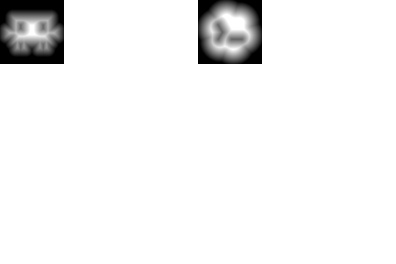
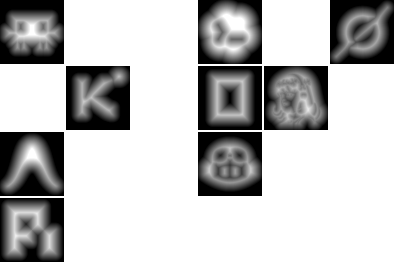
359 (green, step 2): the swarm's atlas carries the nine chosen marks again, and the eleven neighbours stay blank
- The recipe VF-PM ruled (LP-D7's other half stands: a mark the app does not draw leaves the bundle):
  - the bake's png came back from git: `git show 40c794263:…/FieldSwarm/Resources/marks.png` (the commit before
    LP-4's blanking, d074dca20^), 98,495 bytes, sha256 6a5bca60526102573cf5c63cccf5af0ab086c0db0d1d0d0f45e96fa9fbc0104e,
    the same sum as the png at IOS-6c's 0ba7a6a89;
  - `apps/ios/scripts/blank-unkept-marks.mjs` ran on it in the lane with KEPT = the nine marks the design chose
    (claudecode, codex, grok, kimi, opencode, hermesagent, antigravity, githubcopilot, pi) and blanked the eleven
    neighbours (claude, anthropic, openai, xai, moonshot, nousresearch, geminicli, gemini, copilot, github,
    inflection);
  - the png it wrote: 18,532 bytes, sha256 f67d8e288f6166a2577a517bd7a31c3dac71df50aa998b90ecfcabb96e9645cd
    (before, with two tiles: 5,267 bytes, sha256 ce334edab5ddcc18c02328d3dc1bf78a40bef1b2360a9eef604fe5d3dd4bc79a).
- `MarksAtlas.swift`: `kept: true` on the seven other chosen rows, so `providers` is the nine and each draws its
  tile; the head comment and `kept`'s say what LP-4 did and what item 359 did. No tile moved and no literal was
  added: R23b, the gate's own count, before and after: FieldSwarm/MarksAtlas.swift (29 of 29 literal(s)), both times.
- `FieldSwarmTests`: the pin is the script's printed one,
  873a6a58bc37325008b8194fdc2c38ccde072389d1812b4425bcfc137a63a166 (it was 4c89a40c…e867df7), and its note says
  where the nine sit.
[…]

Changed region(s): [[0.4848, 0.0, 1.0, 0.7576], [0.0, 0.2424, 0.3333, 1.0]]

diff --git a/apps/ios/VibeFieldKit/Sources/FieldSwarm/MarksAtlas.swift b/apps/ios/VibeFieldKit/Sources/FieldSwarm/MarksAtlas.swift
@@ -12,20 +12,27 @@ import UIKit
 // could be confused with, so the design could weigh the choice; the app draws
 // only the chosen ones that are KEPT.
 //
-// LP-4 (2026-11-05, the 0.9 launch; James kept two vendor logos in v1): only
-// Claude's and Codex's marks are kept. Every other vendor's mark is a third
-// party's trademark the app has no leave to draw, so every other agent — its
-// pick still recorded as `chosen`, the design's record — wears its LETTER, the
-// swarm's own path for an agent with no tile (`SwarmRenderer`'s watermark
-// fallback). The png ships those two tiles alone: every other tile is blanked
-// IN PLACE (every channel 0, alpha 0) by `apps/ios/scripts/blank-unkept-marks.mjs`,
-// which holds its table to `candidates` below and prints the pixel digest
-// `FieldSwarmTests` pins. The kept tiles are the bake's bytes and no tile
-// moved. The DEBUG lab's sheet (`-vf-swarm-lab=marks`) lists the kept marks
-// alone, read from this table (VF-PM's ruling (a)): a shipped lab shows only
-// what the atlas holds. The design's record of the blanked candidates is the
-// gitignored draft/launch/swarm-marks-candidates.md. A re-bake is the
-// generator's, and the generator is not in this repo.
+// WHICH ARE KEPT. LP-4 (2026-11-05, the 0.9 launch) kept two vendor logos,
+// Claude's and Codex's, and every other agent wore its LETTER. Item 359
+// (2026-11-12; James, 17:50:31Z: "overturn this ruling, bring back those
+// icons now") overturned that: every pick is kept, so each of the nine agents
+// with a tile draws its own mark again. `kept` stays in the table, so one
+// mark can be withdrawn by its row; an agent whose pick is not kept, or that
+// has no tile, wears its letter, the swarm's own path (`SwarmRenderer`'s
+// watermark fallback).
+//
+// WHAT SHIPS. LP-D7's other half stands: a mark the app does not draw leaves
+// the bundle. The png carries the nine chosen tiles and no other: the eleven
+// neighbours are blanked IN PLACE (every channel 0, alpha 0) by
+// `apps/ios/scripts/blank-unkept-marks.mjs`, which holds its table to
+// `candidates` below and prints the pixel digest `FieldSwarmTests` pins. The
+// kept tiles are the bake's bytes (the seven LP-4 had blanked came back from
+// git, the png at 40c794263) and no tile moved. The DEBUG lab's sheet
+// (`-vf-swarm-lab=marks`) lists the kept marks alone, read from this table
+// (VF-PM's ruling (a)): a shipped lab shows only what the atlas holds. The
+// design's record of the blanked candidates is the gitignored
+// draft/launch/swarm-marks-candidates.md. A re-bake is the generator's, and
+// the generator is not in this repo.
 //
 // THE ALLOW-LISTED PRESENTATION TABLE (AC-5, R23b). `candidates` below is the
 // one place in this target that names agents, and it is allowed to because it
@@ -60,9 +67,9 @@ public enum MarksAtlas {
     public var provider: String?
     /// The mark the design picked for that provider.
     public var chosen: Bool
-    /// Whether the app may draw that pick (LP-4): a vendor's logo is its
-    /// owner's, and only the two James kept for v1 are drawn. Unkept, the
-    /// provider wears its letter.
+    /// Whether the app draws that pick. Every pick is kept since item 359
+    /// (2026-11-12); LP-4 (2026-11-05) had kept two. Unkept, the provider
+    /// wears its letter.
     public var kept: Bool = false
 
     /// The app draws this tile: the design's pick, and a mark it keeps.
@@ -80,20 +87,20 @@ public enum MarksAtlas {
     Candidate(id: "anthropic", title: "Anthropic", tile: at(2), provider: "claude", chosen: false),
     Candidate(id: "codex", title: "Codex", tile: at(3), provider: "codex", chosen: true, kept: true),
     Candidate(id: "openai", title: "OpenAI", tile: at(4), provider: "codex", chosen: false),
-    Candidate(id: "grok", title: "Grok", tile: at(5), provider: "grok", chosen: true),
+    Candidate(id: "grok", title: "Grok", tile: at(5), provider: "grok", chosen: true, kept: true),
     Candidate(id: "xai", title: "xAI", tile: at(6), provider: "grok", chosen: false),
-    Candidate(id: "kimi", title: "Kimi", tile: at(7), provider: "kimi", chosen: true),
+    Candidate(id: "kimi", title: "Kimi", tile: at(7), provider: "kimi", chosen: true, kept: true),
     Candidate(id: "moonshot", title: "Moonshot AI", tile: at(8), provider: "kimi", chosen: false),
-    Candidate(id: "opencode", title: "opencode", tile: at(9), provider: "opencode", chosen: true),
-    Candidate(id: "hermesagent", title: "Hermes Agent", tile: at(10), provider: "hermes", chosen: true),
+    Candidate(id: "opencode", title: "opencode", tile: at(9), provider: "opencode", chosen: true, kept: true),
+    Candidate(id: "hermesagent", title: "Hermes Agent", tile: at(10), provider: "hermes", chosen: true, kept: true),
     Candidate(id: "nousresearch", title: "Nous Research", tile: at(11), provider: "hermes", chosen: false),
-    Candidate(id: "antigravity", title: "Antigravity", tile: at(12), provider: "antigravity", chosen: true),
+    Candidate(id: "antigravity", title: "Antigravity", tile: at(12), provider: "antigravity", chosen: true, kept: true),
     Candidate(id: "geminicli", title: "Gemini CLI", tile: at(13), provider: "antigravity", chosen: false),
     Candidate(id: "gemini", title: "Gemini", tile: at(14), provider: "antigravity", chosen: false),
-    Candidate(id: "githubcopilot", title: "GitHub Copilot", tile: at(15), provider: "copilot", chosen: true),
+    Candidate(id: "githubcopilot", title: "GitHub Copilot", tile: at(15), provider: "copilot", chosen: true, kept: true),
     Candidate(id: "copilot", title: "Copilot", tile: at(16), provider: "copilot", chosen: false),
     Candidate(id: "github", title: "GitHub", tile: at(17), provider: "copilot", chosen: false),
-    Candidate(id: "pi", title: "Pi", tile: at(18), provider: "pi", chosen: true),
+    Candidate(id: "pi", title: "Pi", tile: at(18), provider: "pi", chosen: true, kept: true),
     Candidate(id: "inflection", title: "Inflection", tile: at(19), provider: "pi", chosen: false),
   ]
 
@@ -103,7 +110,7 @@ public enum MarksAtlas {
   public static let providers: [String] = candidates.filter(\.drawn).compactMap(\.provider)
 
   /// The tile for a mark key, or nil for one with only a letter (no tile, or
-  /// a vendor's mark the app does not keep, LP-4).
+  /// a mark the app does not keep).
   public static func tile(for mark: String) -> Tile? {
     candidates.first { $0.drawn && $0.provider == mark }?.tile
   }

diff --git a/apps/ios/VibeFieldKit/Tests/FieldSwarmTests/FieldSwarmTests.swift b/apps/ios/VibeFieldKit/Tests/FieldSwarmTests/FieldSwarmTests.swift
@@ -92,14 +92,16 @@ private func catalogGolden() throws -> [CatalogMarkRow] {
   /// tile gutters: a flipped upload can leave every tile coordinate correct
   /// while showing a different agent's mark (or an empty tile).
   ///
-  /// LP-4 (2026-11-05): the pin is the atlas with every unkept tile blanked in
-  /// place (`apps/ios/scripts/blank-unkept-marks.mjs` prints it; the
-  /// generator's full bake pinned 49b54415…). The two kept tiles are the bake's
-  /// bytes and both sit in the top row, so a flipped upload still misses it.
+  /// The pin is the atlas with every unkept tile blanked in place
+  /// (`apps/ios/scripts/blank-unkept-marks.mjs` prints it; the generator's
+  /// full bake pinned 49b54415…). Item 359 (2026-11-12): nine tiles are kept,
+  /// the bake's bytes: three in the top row, three in the second, two in the
+  /// third and one in the last, so a flipped upload still misses it. (LP-4,
+  /// 2026-11-05, kept two, both in the top row, and pinned 4c89a40c….)
   @Test @MainActor func uploadedMarksMatchDesktopPixels() throws {
     let red = try uploadedRed()
     let digest = SHA256.hash(data: Data(red)).map { String(format: "%02x", $0) }.joined()
[2 lines of base64/hex data omitted]
   }
 
   /// LP-4 — the bundle carries no vendor mark the app does not draw: every

diff --git a/apps/ios/VibeFieldKit/Sources/FieldSwarm/Lab/SwarmLabView.swift b/apps/ios/VibeFieldKit/Sources/FieldSwarm/Lab/SwarmLabView.swift
@@ -230,7 +230,8 @@ private struct LabClusterSection: View {
 /// atlas holds. So the sheet lists `MarksAtlas`' KEPT candidates and no other:
 /// the neighbours the design weighed beside them are blank in `marks.png`, and
 /// every other agent wears its letter. The kept set is read from the table,
-/// never listed here a second time.
+/// never listed here a second time: nine since item 359 (2026-11-12), two
+/// under LP-4.
 private struct LabMarksSection: View {
   private let columns = 5
   private let cell: CGFloat = 64
